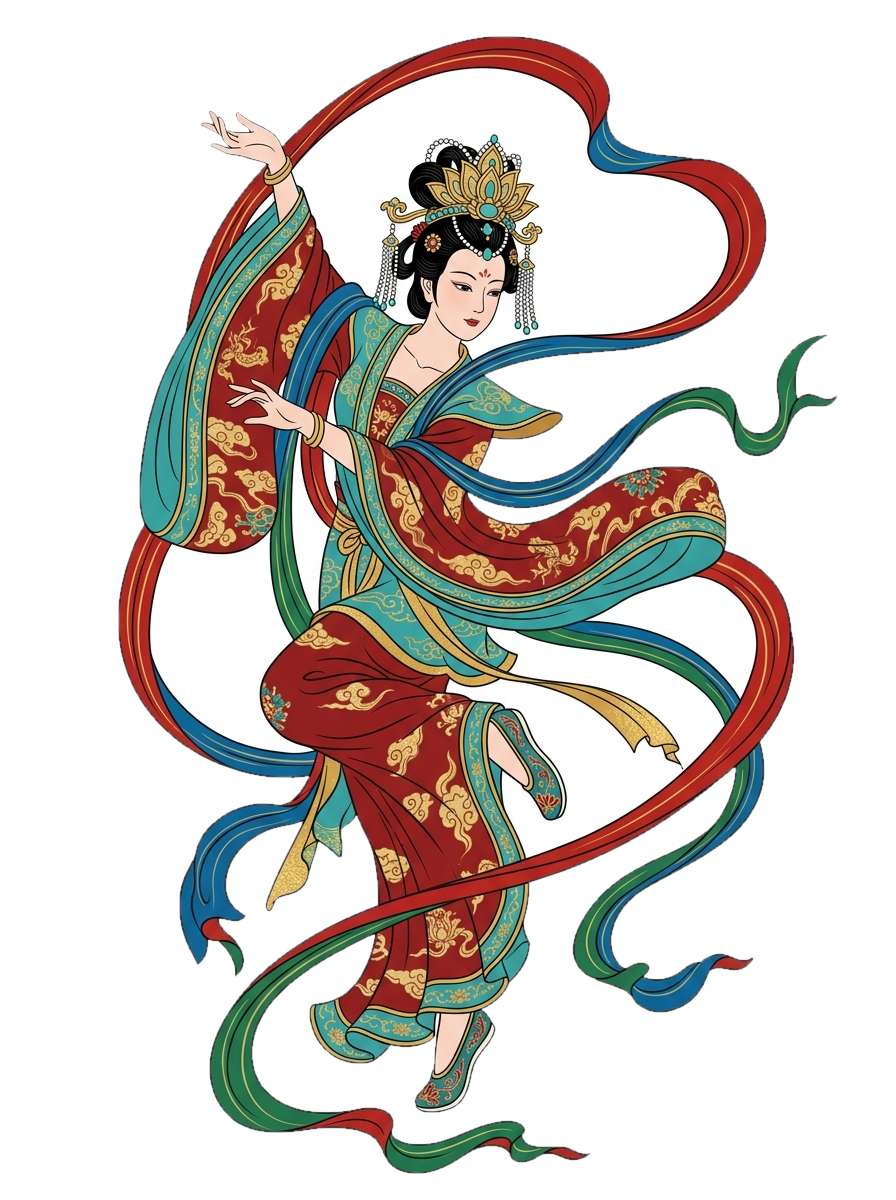
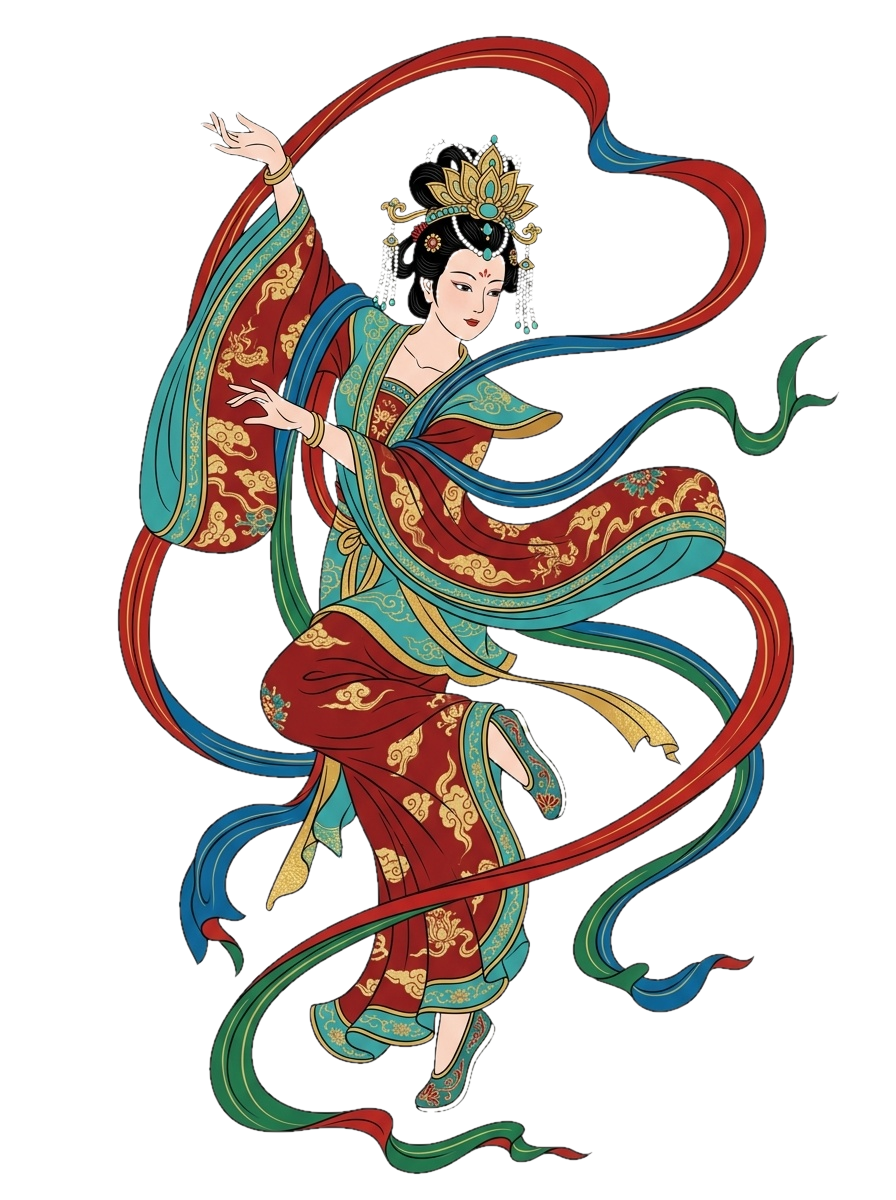
fix: remove all enclosed white spaces from dancer and wayang puppets, set pure black loading screen with dancing character, and show only entry page without dolls on welcome

diff --git a/frontend/src/components/ui/DancingWomanLoadingScreen.tsx b/frontend/src/components/ui/DancingWomanLoadingScreen.tsx
@@ -14,7 +14,7 @@ export const DancingWomanLoadingScreen: React.FC<DancingWomanLoadingScreenProps>
   // Real-time animation time
   const [time, setTime] = useState(0)
 
-  // Continuous animation loop for the dancing woman
+  // Smooth continuous 60fps loop for dance physics
   useEffect(() => {
     let animId: number
     const startTime = performance.now()
@@ -29,25 +29,25 @@ export const DancingWomanLoadingScreen: React.FC<DancingWomanLoadingScreenProps>
     return () => cancelAnimationFrame(animId)
   }, [])
 
-  // Progress timer (runs for ~3.2 seconds total)
+  // Progress timer (~3.0 seconds total)
   useEffect(() => {
     const interval = setInterval(() => {
       setProgress((prev) => {
-        const next = prev + 1.2
+        const next = prev + 1.25
         if (next >= 100) {
           clearInterval(interval)
-          setStatusText('The stage is set. Welcome to SuperFlow!')
+          setStatusText('Welcome to SuperFlow')
           setTimeout(() => {
             setIsFadingOut(true)
-            setTimeout(onComplete, 600)
-          }, 300)
+            setTimeout(onComplete, 500)
+          }, 250)
           return 100
         }
 
         if (next > 75) {
-          setStatusText('Warming up the SuperFlow Agent Engine...')
+          setStatusText('Starting SuperFlow Engine...')
         } else if (next > 50) {
-          setStatusText('Tuning the marionette silk threads...')
+          setStatusText('Tuning marionette strings...')
         } else if (next > 25) {
           setStatusText('The dancer takes the stage...')
         }
@@ -58,46 +58,46 @@ export const DancingWomanLoadingScreen: React.FC<DancingWomanLoadingScreenProps>
     return () => clearInterval(interval)
   }, [onComplete])
 
-  // Dance physics calculations:
-  // 1. Turn in both directions: rotateY turns left (-45deg) and right (+45deg), periodically doing a full twirl
-  const turnAngle = Math.sin(time * 2.4) * 45 + Math.sin(time * 1.2) * 20
+  // Dance physics:
+  // 1. Turns in both directions: turns left, turns right (-50deg to +50deg)
+  const turnAngle = Math.sin(time * 2.8) * 45 + Math.sin(time * 1.4) * 15
 
-  // 2. Shake and dance: rapid shimmy and joyful hip sway
-  const shakeAngle = Math.sin(time * 9.5) * 4.5 + Math.cos(time * 4.8) * 6.0
+  // 2. Shake and dance: rapid hip shimmy & ribbon shake
+  const shakeAngle = Math.sin(time * 11.0) * 5.0 + Math.cos(time * 5.5) * 6.0
 
-  // 3. Dance bounce / vertical step cadence
-  const danceBounceY = Math.abs(Math.sin(time * 4.8)) * -18 + Math.cos(time * 2.4) * 6
+  // 3. Cadenced dancing bounce
+  const danceBounceY = Math.abs(Math.sin(time * 5.5)) * -22 + Math.cos(time * 2.8) * 6
 
-  // 4. Subtle scale squash-and-stretch
-  const scaleSquash = 1.0 + Math.sin(time * 4.8) * 0.04
+  // 4. Squash and stretch
+  const scaleSquash = 1.0 + Math.sin(time * 5.5) * 0.04
 
-  // 5. Overhead silk thread attachment points (moving dynamically with her dance turn)
-  const threadLeftX = 50 + Math.sin(time * 2.4) * 14 - 8
-  const threadRightX = 50 + Math.sin(time * 2.4) * 14 + 8
-  const threadHeadX = 50 + Math.sin(time * 2.4) * 6
-  const threadHeadY = 32 + danceBounceY * 0.2
+  // 5. Dynamic thread tracking
+  const threadLeftX = 50 + Math.sin(time * 2.8) * 16 - 10
+  const threadRightX = 50 + Math.sin(time * 2.8) * 16 + 10
+  const threadHeadX = 50 + Math.sin(time * 2.8) * 8
+  const threadHeadY = 28 + danceBounceY * 0.22
 
   return (
     <div
-      className={`fixed inset-0 z-50 flex flex-col items-center justify-center bg-radial from-[#1e130b] via-[#100b07] to-[#080503] select-none transition-opacity duration-700 ${
+      className={`fixed inset-0 z-50 flex flex-col items-center justify-between bg-black select-none transition-opacity duration-700 ${
         isFadingOut ? 'opacity-0 pointer-events-none' : 'opacity-100'
       }`}
     >
-      {/* 1. Dramatic Stage Spotlight on the Dancing Woman */}
+      {/* 1. Subtle Dramatic Spotlight on Black Background */}
       <div className="absolute inset-0 pointer-events-none overflow-hidden">
-        {/* Overhead circular golden cone spotlight */}
+        {/* Overhead warm golden cone of light */}
         <div
-          className="absolute top-0 left-1/2 -translate-x-1/2 w-[420px] md:w-[600px] h-[700px] bg-gradient-to-b from-gold/30 via-gold/10 to-transparent blur-3xl opacity-80"
+          className="absolute top-0 left-1/2 -translate-x-1/2 w-[380px] md:w-[520px] h-[650px] bg-gradient-to-b from-amber-500/25 via-gold/10 to-transparent blur-3xl opacity-75"
           style={{
-            transform: `translateX(-50%) rotate(${Math.sin(time * 0.8) * 4}deg)`,
+            transform: `translateX(-50%) rotate(${Math.sin(time * 0.7) * 3}deg)`,
             transformOrigin: 'top center',
           }}
         />
-        {/* Stage floor glow pool */}
-        <div className="absolute bottom-24 left-1/2 -translate-x-1/2 w-80 md:w-96 h-20 rounded-full bg-gold/20 blur-2xl" />
+        {/* Stage floor pool of light */}
+        <div className="absolute bottom-28 left-1/2 -translate-x-1/2 w-72 md:w-88 h-16 rounded-full bg-gold/15 blur-2xl" />
       </div>
 
-      {/* 2. Marionette Control Crossbar & Silk Threads */}
+      {/* 2. Marionette Control Bar & Golden Silk Threads */}
       <div className="absolute inset-0 pointer-events-none z-10">
         <svg
           viewBox="0 0 100 100"
@@ -125,7 +125,7 @@ export const DancingWomanLoadingScreen: React.FC<DancingWomanLoadingScreenProps>
 
           {/* Head Suspension Silk Thread */}
           <path
-            d={`M 50 7 Q ${50 + Math.sin(time * 2.4) * 3} ${(7 + threadHeadY) / 2} ${threadHeadX} ${threadHeadY}`}
+            d={`M 50 7 Q ${50 + Math.sin(time * 2.8) * 4} ${(7 + threadHeadY) / 2} ${threadHeadX} ${threadHeadY}`}
             fill="none"
             stroke="#fae596"
             strokeWidth="0.35"
@@ -133,7 +133,7 @@ export const DancingWomanLoadingScreen: React.FC<DancingWomanLoadingScreenProps>
           />
           {/* Left Ribbon / Arm Thread */}
           <path
-            d={`M 30 7 Q ${(30 + threadLeftX) / 2} ${(7 + threadHeadY + 12) / 2} ${threadLeftX} ${threadHeadY + 14}`}
+            d={`M 30 7 Q ${(30 + threadLeftX) / 2} ${(7 + threadHeadY + 14) / 2} ${threadLeftX} ${threadHeadY + 16}`}
             fill="none"
             stroke="#f5d179"
             strokeWidth="0.3"
@@ -141,7 +141,7 @@ export const DancingWomanLoadingScreen: React.FC<DancingWomanLoadingScreenProps>
           />
           {/* Right Ribbon / Arm Thread */}
           <path
-            d={`M 70 7 Q ${(70 + threadRightX) / 2} ${(7 + threadHeadY + 12) / 2} ${threadRightX} ${threadHeadY + 14}`}
+            d={`M 70 7 Q ${(70 + threadRightX) / 2} ${(7 + threadHeadY + 14) / 2} ${threadRightX} ${threadHeadY + 16}`}
             fill="none"
             stroke="#f5d179"
             strokeWidth="0.3"
@@ -150,67 +150,74 @@ export const DancingWomanLoadingScreen: React.FC<DancingWomanLoadingScreenProps>
         </svg>
       </div>
 
-      {/* 3. The Dancing Woman Character */}
+      {/* Top Spacer / Brand */}
+      <div className="relative z-20 pt-8 text-center">
+        <span className="text-xs uppercase tracking-[0.3em] text-gold/80 font-mono font-medium">
+          SuperFlow • Opening Ceremony
+        </span>
+      </div>
+
+      {/* 3. The Dancing Woman Character (Turns both sides, shakes & dances) */}
       <div className="relative z-20 flex flex-col items-center justify-center my-auto">
         <div
-          className="relative w-56 sm:w-64 md:w-72 h-80 sm:h-96 flex items-center justify-center filter drop-shadow-[0_20px_35px_rgba(0,0,0,0.7)]"
+          className="relative w-64 sm:w-72 md:w-80 h-88 sm:h-96 flex items-center justify-center filter drop-shadow-[0_25px_40px_rgba(0,0,0,0.9)]"
           style={{
-            transform: `perspective(700px) translateY(${danceBounceY}px) rotateY(${turnAngle}deg) rotateZ(${shakeAngle}deg) scale(${scaleSquash})`,
+            transform: `perspective(750px) translateY(${danceBounceY}px) rotateY(${turnAngle}deg) rotateZ(${shakeAngle}deg) scale(${scaleSquash})`,
             transformOrigin: '50% 85%',
-            transition: 'transform 0.05s linear',
+            transition: 'transform 0.04s linear',
           }}
         >
-          {/* The Dancing Woman Character (Silk Ribbon Celestial Dancer) */}
+          {/* The Dancing Woman Character - Clean Transparent (All white spaces removed) */}
           <img
             src="/assets/shadow/silk_dancer_clean.png"
-            alt="Dancing Woman"
+            alt="Dancing Woman Character"
             className="w-full h-full object-contain pointer-events-none select-none"
           />
 
-          {/* Dancing Ribbon Trail Glow Effect */}
+          {/* Golden Ribbon Glow Halo */}
           <div
-            className="absolute inset-0 bg-gradient-to-t from-gold/15 via-transparent to-transparent opacity-60 rounded-full blur-xl pointer-events-none"
+            className="absolute inset-0 bg-gradient-to-t from-gold/20 via-transparent to-transparent opacity-70 rounded-full blur-2xl pointer-events-none"
             style={{
-              transform: `scale(${1 + Math.abs(Math.sin(time * 3)) * 0.2})`,
+              transform: `scale(${1 + Math.abs(Math.sin(time * 3.5)) * 0.25})`,
             }}
           />
         </div>
 
         {/* Dancing Character Caption */}
-        <div className="text-center mt-2">
-          <span className="text-xs uppercase tracking-widest text-gold/80 font-sans font-medium flex items-center justify-center gap-1.5">
+        <div className="text-center mt-3">
+          <span className="text-xs tracking-widest text-gold/90 font-sans font-medium flex items-center justify-center gap-2">
             <span className="w-1.5 h-1.5 rounded-full bg-gold animate-ping" />
-            <span>The Celestial Dancer • SuperFlow Overture</span>
+            <span>The Celestial Dancer</span>
           </span>
         </div>
       </div>
 
-      {/* 4. Theatrical Loading Progress Bar & Status */}
+      {/* 4. Theatrical Loading Progress Bar */}
       <div className="relative z-30 w-full max-w-md px-6 pb-12 flex flex-col items-center">
         {/* Status text */}
-        <div className="text-sm font-sans text-cream-light/90 mb-3 tracking-wide text-center h-6 transition-all duration-300">
+        <div className="text-sm font-sans text-cream-light/95 mb-3 tracking-wide text-center h-6 font-medium">
           {statusText}
         </div>
 
         {/* Golden Progress Bar Container */}
-        <div className="w-full h-2.5 rounded-full bg-black/60 border border-gold/30 p-0.5 overflow-hidden shadow-inner">
+        <div className="w-full h-2 rounded-full bg-neutral-900 border border-gold/40 p-0.5 overflow-hidden shadow-inner">
           <div
-            className="h-full rounded-full bg-gradient-to-r from-gold-dark via-gold to-yellow-200 transition-all duration-100 shadow-[0_0_12px_rgba(212,175,55,0.7)]"
+            className="h-full rounded-full bg-gradient-to-r from-gold-dark via-gold to-yellow-200 transition-all duration-100 shadow-[0_0_12px_rgba(212,175,55,0.8)]"
             style={{ width: `${Math.min(progress, 100)}%` }}
           />
         </div>
 
         {/* Progress percent & Skip button */}
-        <div className="w-full flex items-center justify-between text-[11px] text-muted font-sans mt-2">
-          <span className="tabular-nums font-mono text-gold/90">{Math.round(progress)}%</span>
+        <div className="w-full flex items-center justify-between text-[11px] text-muted font-sans mt-2.5">
+          <span className="tabular-nums font-mono text-gold font-medium">{Math.round(progress)}%</span>
           <button
             onClick={() => {
               setIsFadingOut(true)
-              setTimeout(onComplete, 400)
+              setTimeout(onComplete, 350)
             }}
-            className="text-muted/70 hover:text-gold transition-colors underline cursor-pointer"
+            className="text-muted/80 hover:text-gold transition-colors underline cursor-pointer"
           >
-            Enter Stage →
+            Enter SuperFlow →
           </button>
         </div>
       </div>

diff --git a/frontend/src/App.tsx b/frontend/src/App.tsx
@@ -16,7 +16,7 @@ export const App: React.FC = () => {
   const { theme } = useThemeStore()
   const [curtainOpen, setCurtainOpen] = useState(false)
 
-  // Dancing woman loading screen active on app startup
+  // Theatrical dancing woman loading screen on app startup
   const [isLoading, setIsLoading] = useState(true)
 
   // Open the stage curtain when loading finishes
@@ -27,9 +27,14 @@ export const App: React.FC = () => {
     }, 200)
   }
 
+  // The user explicitly requested:
+  // "in there i should see only the entry page and not the dolls when i enter the page"
+  // So puppets/dolls are hidden on the 'overture' (welcome/entry) stage!
+  const showDollsOnStage = stage !== 'overture'
+
   return (
     <div className={`relative min-h-screen flex flex-col font-sans transition-colors duration-500 ${theme === 'dark' ? 'dark' : ''}`}>
-      {/* 1. Dancing Woman Theatrical Loading Page (Turns both directions, shakes & dances) */}
+      {/* 1. Dancing Woman Theatrical Loading Page (Black background, dancing in both directions, turns & shakes) */}
       {isLoading && (
         <DancingWomanLoadingScreen onComplete={handleLoadingComplete} />
       )}
@@ -37,18 +42,20 @@ export const App: React.FC = () => {
       {/* 2. Stage Velvet/Washi Curtain */}
       <Curtain isOpen={curtainOpen} />
 
-      {/* 3. Parallax Atmospheric Background with 4 Stages */}
+      {/* 3. Parallax Atmospheric Background */}
       <AtmosphereBackground />
 
       {/* 4. Stage Header & Navigation Controls */}
       <StageHeader />
 
-      {/* 5. 4-Character Puppet Marionette Theatre Stage */}
-      <div className="relative z-10 w-full pt-1">
-        <StageCanvas />
-      </div>
+      {/* 5. Puppet Marionette Theatre (Hidden on entry page per user instruction; visible in workshop/premiere) */}
+      {showDollsOnStage && (
+        <div className="relative z-10 w-full pt-1">
+          <StageCanvas />
+        </div>
+      )}
 
-      {/* 6. Dynamic Experience Flow Stages: Defaults to SuperFlow Welcome Page */}
+      {/* 6. Dynamic Experience Flow Stages: Clean SuperFlow Entry Page without dolls */}
       <main className="relative z-20 flex-1 flex flex-col justify-center pb-12">
         {stage === 'overture' && <SuperFlowWelcomeView />}
         {stage === 'casting' && <CastingView />}
@@ -58,7 +65,7 @@ export const App: React.FC = () => {
 
       {/* 7. Ground Footer with Loading Replay Button */}
       <footer className="relative z-20 py-3 text-center text-xs text-muted/70 font-sans border-t border-border-warm/40 flex items-center justify-between px-6">
-        <span>SuperFlow • Intelligent Agent Engine & Marionette Theatre</span>
+        <span>SuperFlow • Intelligent Agent Engine & Workflow Starter</span>
         <button
           onClick={() => {
             setCurtainOpen(false)
